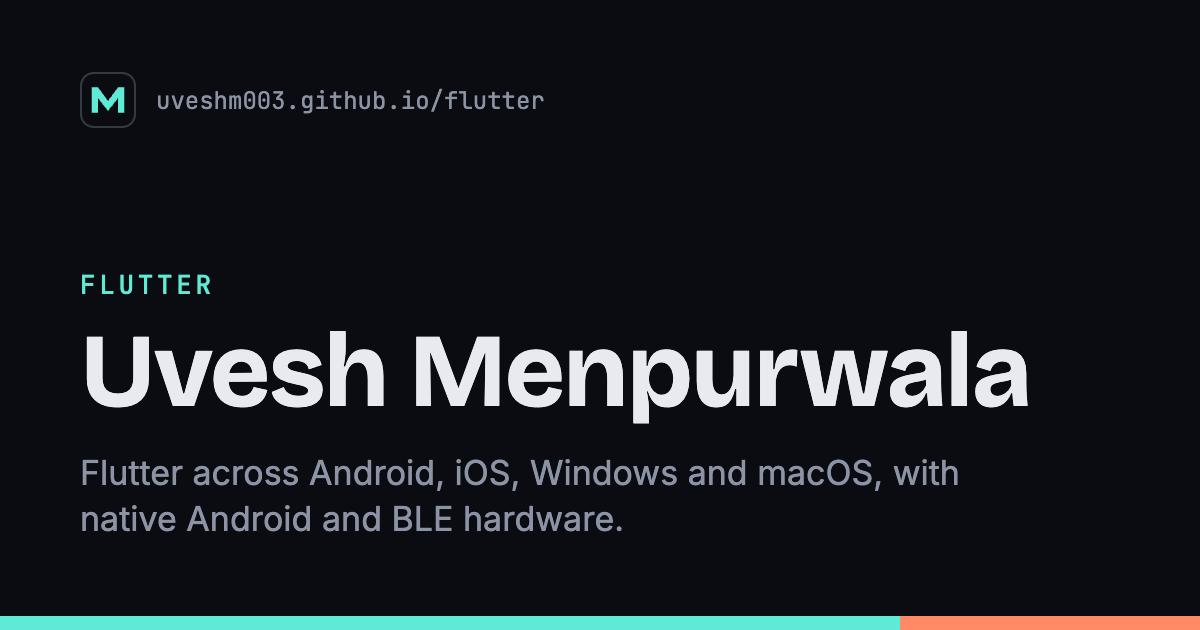
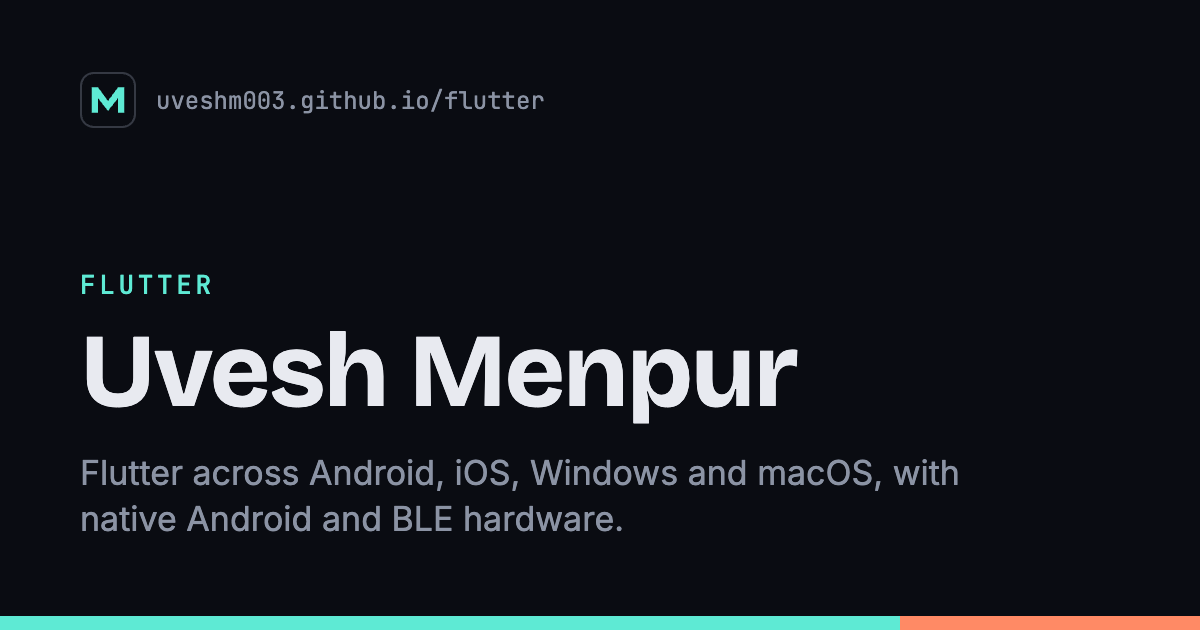
chore: use the name Uvesh Menpur everywhere (#44)
Match the GitHub profile and commits: the site name in titles and link
previews, the share images, the home page fallbacks, the brand footer
and post author, and the spec. Records the choice in the checkpoints.
The Person global's name is content and changes in the admin.

Changed region(s): [[0.6475, 0.5127, 0.8633, 0.6635]]

diff --git a/apps/site/src/app/(root)/page.tsx b/apps/site/src/app/(root)/page.tsx
@@ -14,13 +14,13 @@ import {
   profile,
   profileHref,
 } from '../../lib/content'
-import { SITE_URL } from '../../lib/site'
+import { SITE_NAME, SITE_URL } from '../../lib/site'
 
 export function generateMetadata(): Metadata {
   if (!isEnabled('root')) return {}
   const seo = profile('root')
   return pageMetadata({
-    title: seo.title ?? person().name ?? 'Uvesh Menpurwala',
+    title: seo.title ?? person().name ?? SITE_NAME,
     description: seo.tagline,
     path: '/',
     image: 'root',
@@ -31,7 +31,7 @@ export function generateMetadata(): Metadata {
 function Placeholder() {
   return (
     <main className="mx-auto max-w-2xl px-5 py-24">
-      <h1 className="font-display text-4xl">Uvesh Menpurwala</h1>
+      <h1 className="font-display text-4xl">{SITE_NAME}</h1>
       <p className="mt-4 text-muted">This site is being built.</p>
     </main>
   )

diff --git a/apps/brand/src/app/[kind]/[slug]/page.tsx b/apps/brand/src/app/[kind]/[slug]/page.tsx
@@ -81,7 +81,7 @@ export default async function PostPage({ params }: Props) {
     name: post.title,
     datePublished: post.publishedAt ?? undefined,
     uploadDate: post.type === 'video' ? (post.publishedAt ?? undefined) : undefined,
-    author: { '@type': 'Person', name: 'Uvesh Menpurwala' },
+    author: { '@type': 'Person', name: 'Uvesh Menpur' },
     url: `${BRAND_URL}${postPath(post)}`,
   }
 

diff --git a/apps/brand/src/app/layout.tsx b/apps/brand/src/app/layout.tsx
@@ -73,7 +73,7 @@ export default function RootLayout({ children }: { children: ReactNode }) {
             </li>
             <li>
               <a href={personalSiteUrl} className="hover:text-accent">
-                Uvesh Menpurwala ↗
+                Uvesh Menpur ↗
               </a>
             </li>
           </ul>

diff --git a/apps/site/src/lib/site.ts b/apps/site/src/lib/site.ts
@@ -1,2 +1,2 @@
 export const SITE_URL = 'https://uveshm003.github.io'
-export const SITE_NAME = 'Uvesh Menpurwala'
+export const SITE_NAME = 'Uvesh Menpur'

diff --git a/docs/SPEC.md b/docs/SPEC.md
@@ -13,11 +13,11 @@ This document is the source of truth for the build.
 
 ## Overview
 
-We are building Uvesh Menpurwala's portfolio platform: one monorepo that produces a personal site with five experiences, a standalone brand site, a local admin, a public demo admin and a contact service. Uvesh is a Flutter engineer with about three years of experience, based in Ahmedabad, India, and open to relocation.
+We are building Uvesh Menpur's portfolio platform: one monorepo that produces a personal site with five experiences, a standalone brand site, a local admin, a public demo admin and a contact service. Uvesh is a Flutter engineer with about three years of experience, based in Ahmedabad, India, and open to relocation.
 
 | Output | What it is | Where it runs |
 | --- | --- | --- |
-| Personal site | Root "about me" page plus four profiles: Flutter, Product, Freelance, Full-stack | GitHub Pages at `uveshm003.github.io` (ADR 0002); name on the site is "Uvesh Menpurwala" |
+| Personal site | Root "about me" page plus four profiles: Flutter, Product, Freelance, Full-stack | GitHub Pages at `uveshm003.github.io` (ADR 0002); name on the site is "Uvesh Menpur" |
 | Brand site | Standalone brand for marketing, growth, branding and advertising | GitHub Pages under `uveshm003.github.io/brand` (ADR 0002); its own domain only if one is bought |
 | Admin | Payload CMS holding all content | Uvesh's laptop only |
 | Demo admin | Read-only copy of the admin running on seed data, for reviewers | Public, linked from the Full-stack profile |

diff --git a/docs/checkpoints.md b/docs/checkpoints.md
@@ -115,3 +115,7 @@ Answers from each checkpoint in `docs/SPEC.md`, recorded before work continues. 
 - Launch checkpoint still open: each profile's `enabled` flag goes on only after Uvesh reviews the drafts in `pnpm cms:prod` and publishes them.
 - Launch (same day): Uvesh chose to go live before reviewing, since the site isn't being shared until everything is reviewed. Published: person, public projects, services; root, Flutter, Full-stack and Freelance on. "Claude Code" in resume wording became "AI-assisted" so nothing on GitHub names it.
 - Then Product and Brand too, on the same terms. SyncIT, Dasher and Odigo were set to public with resume-level facts only (no screenshots, code or internal details); their credit wording and confidentiality still need Uvesh's confirmation. Product also shows QuickServe and SpeakUp as case studies. Brand uses the working name Menpur Studio (still `noindex`) with three starter posts written for Uvesh to replace or approve.
+
+## Name
+
+2026-11-19. Uvesh chose "Uvesh Menpur" as the one name everywhere (this site, the GitHub profile and commits), replacing "Uvesh Menpurwala". The code, the share images and the spec use it. The name in the Person global is production content, so it changes in the admin.
